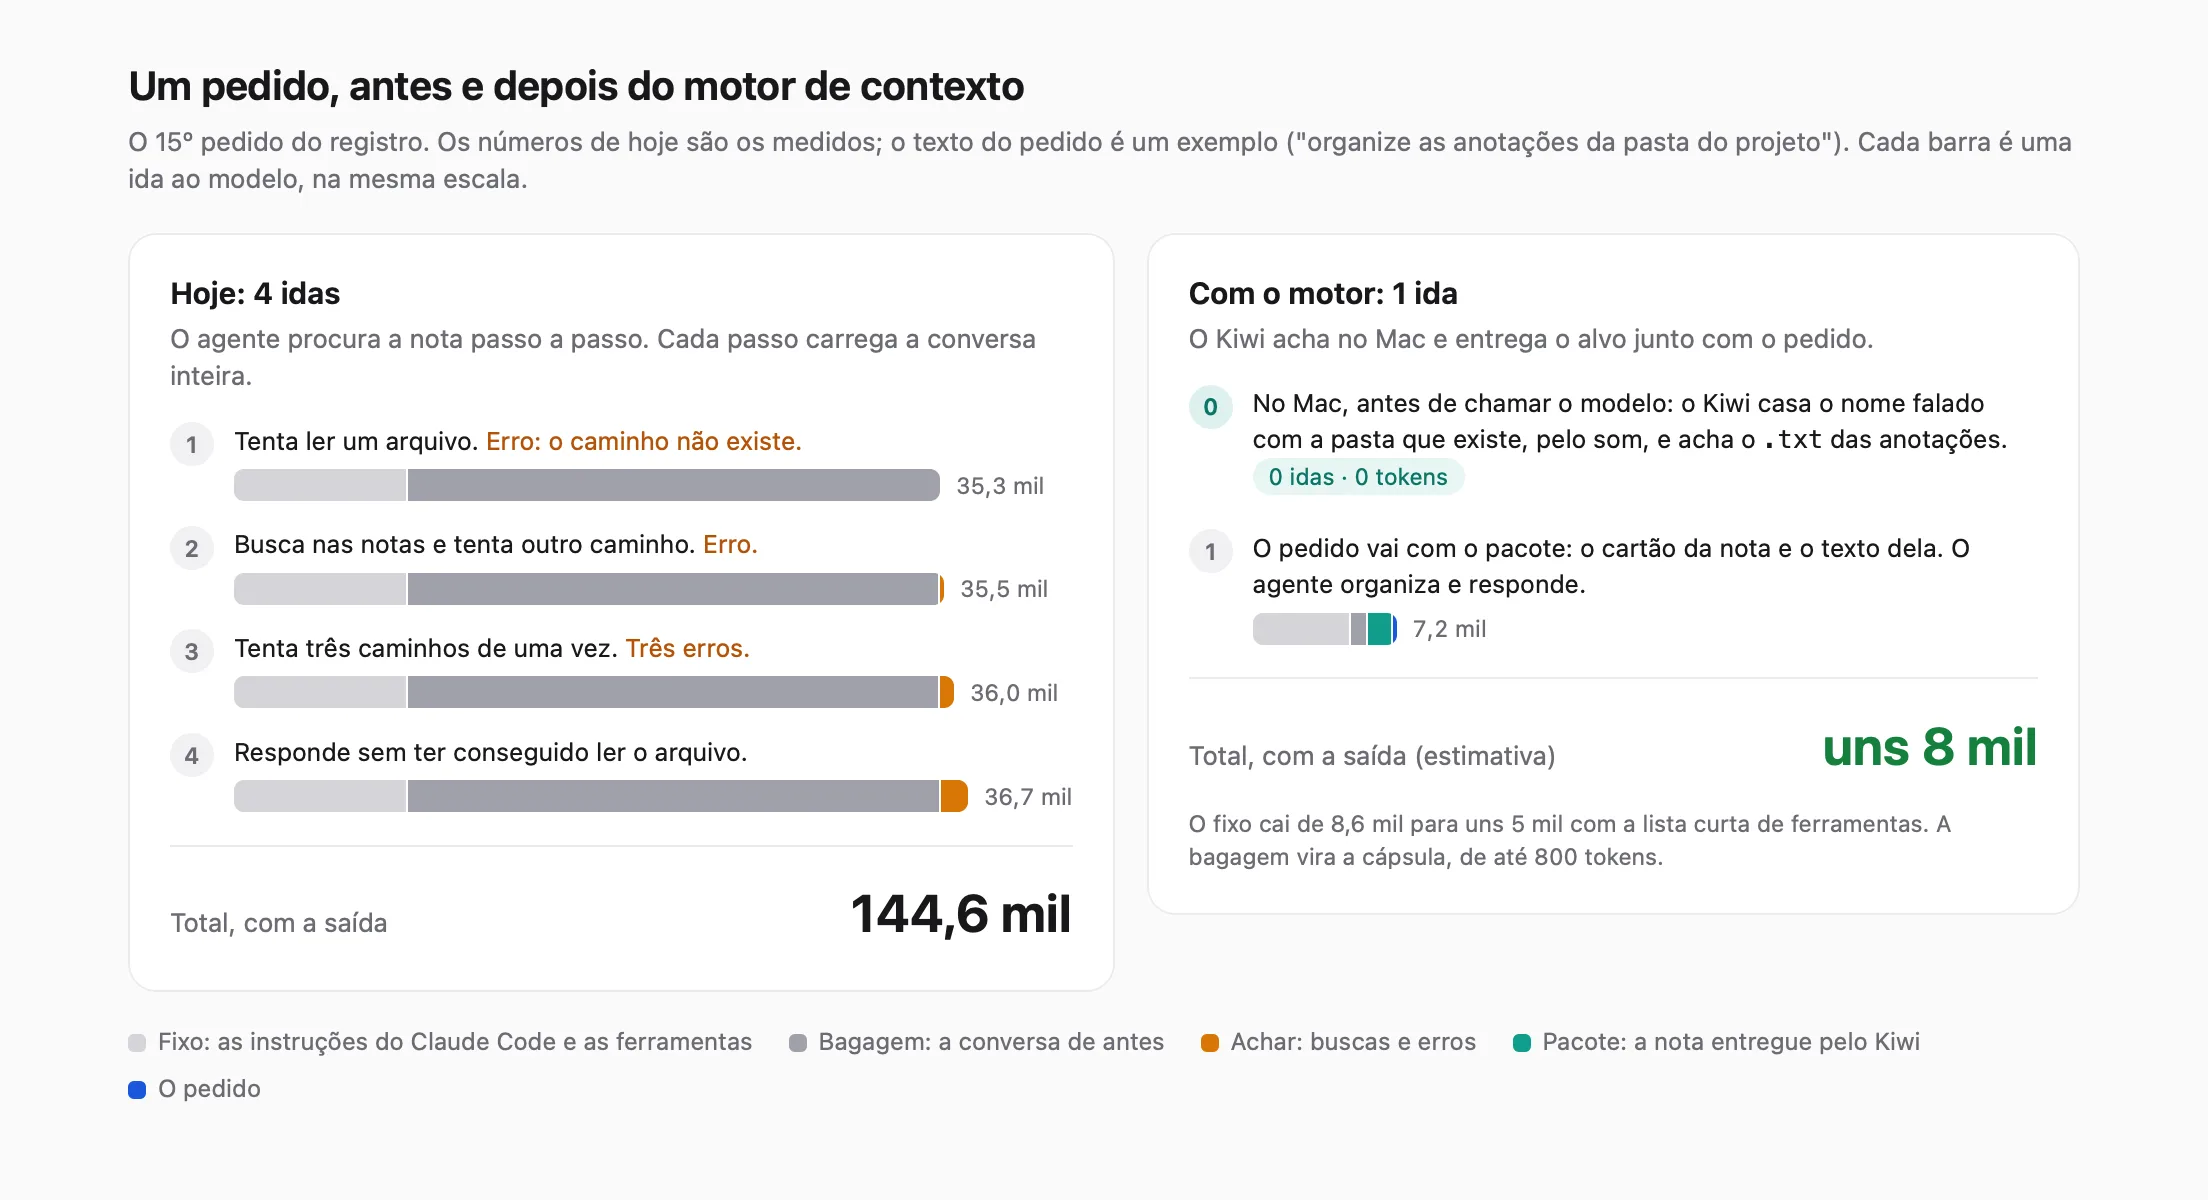
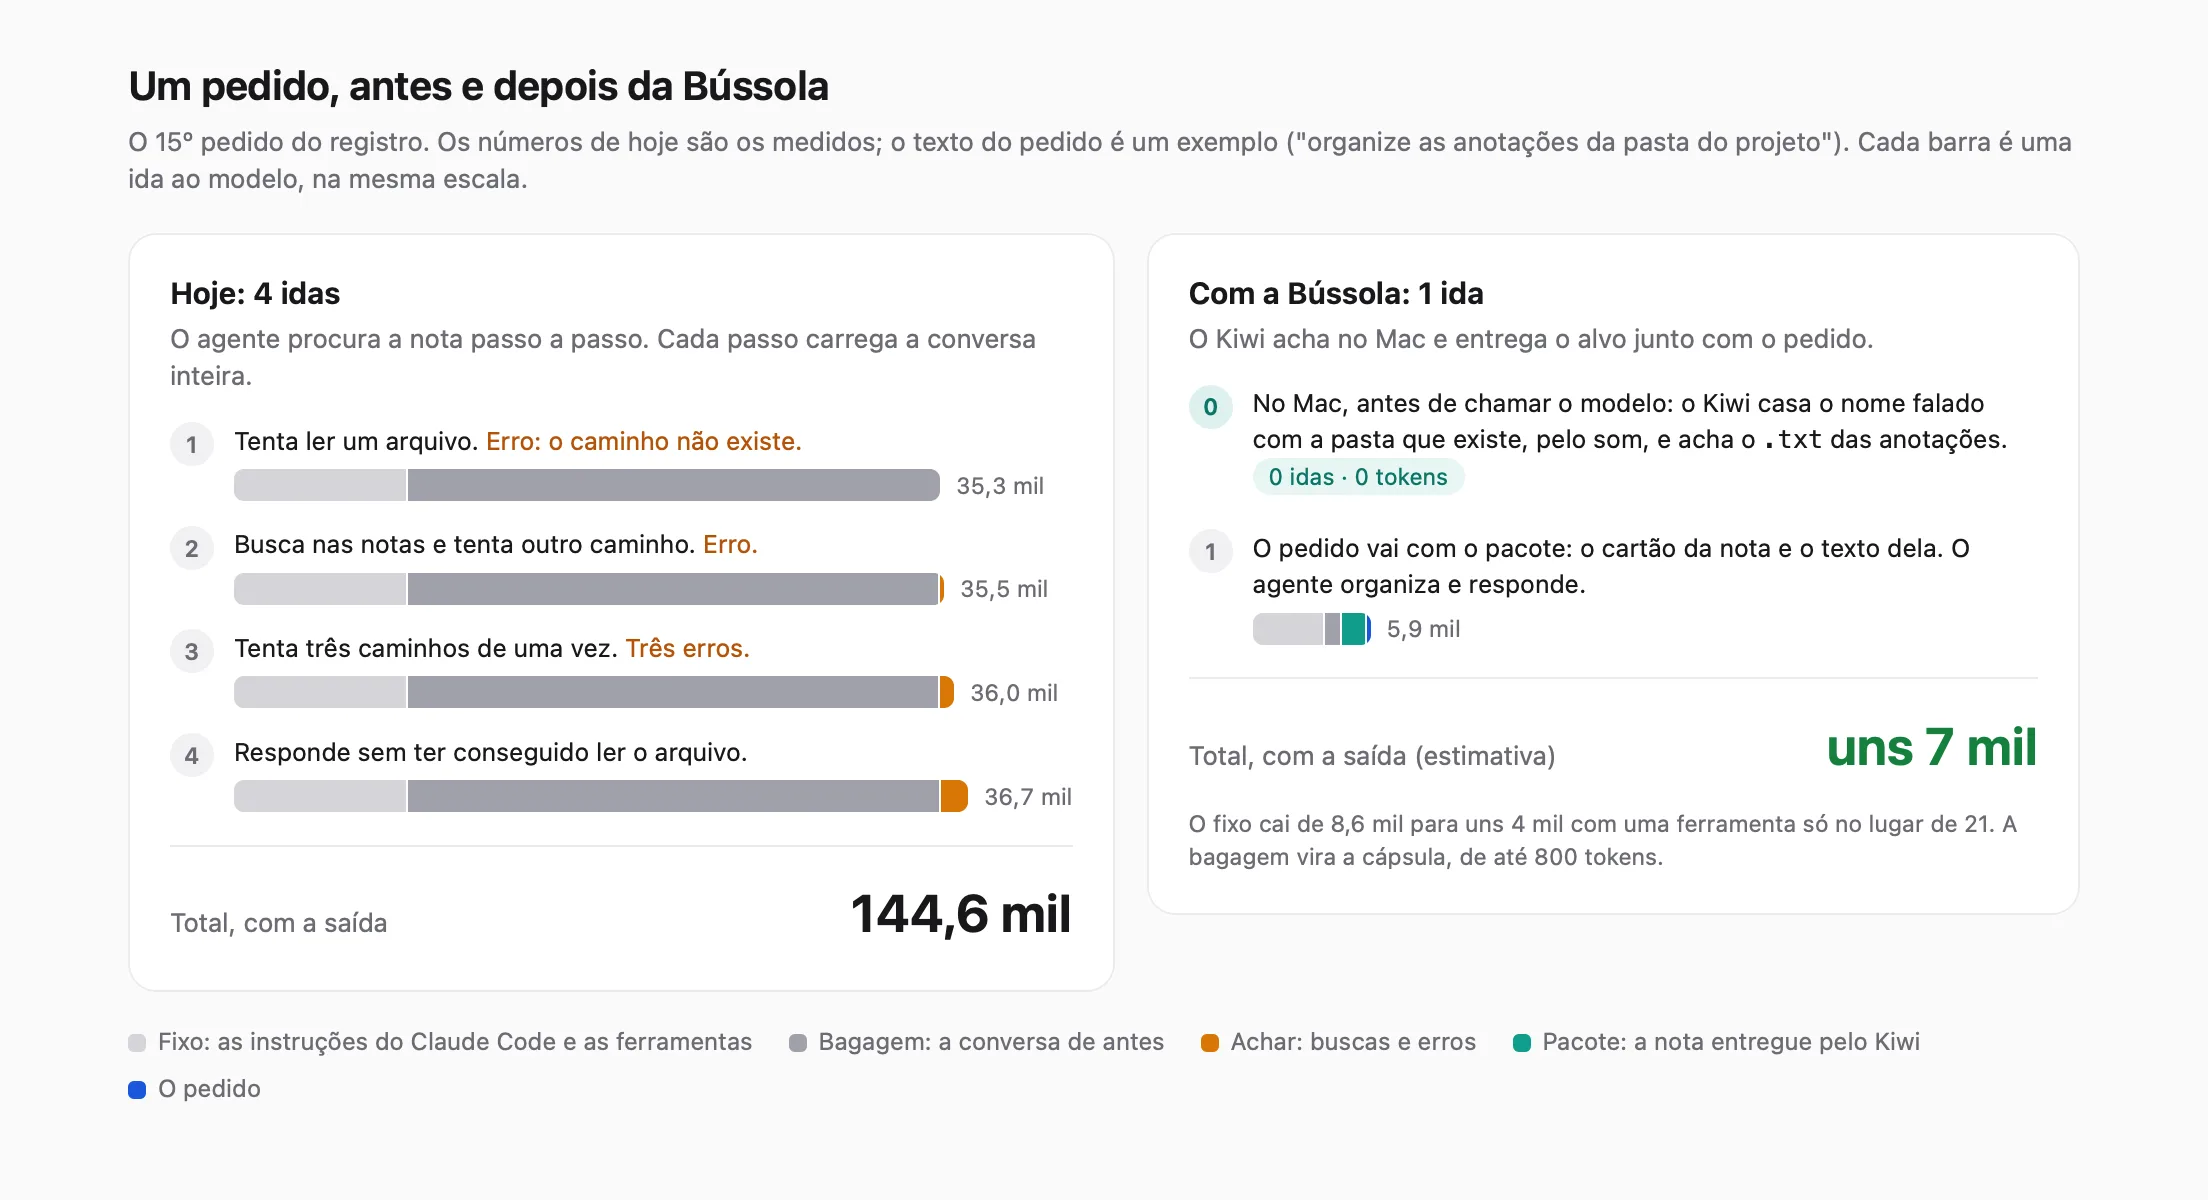
ADR 0013: a revisão pedida pelo harry e o nome Bússola (T13450)
A autocrítica do #13636: uma ferramenta só no lugar de 21 (o fixo cai para
uns 4 mil), a peça 7 (escrever só a diferença, porque a amostra não tinha
escrita), o peso real de cada token medido no PR 1, o ditado com os nomes
das notas, o mapa da pasta na cápsula e o teto da janela que pode ir a zero.
O nome é Bússola / Compass (#13644).

diff --git a/docs/adr/0013-motor-de-contexto.md b/docs/adr/0013-motor-de-contexto.md
@@ -1,7 +1,8 @@
-# ADR 0013: o motor de contexto do Kiwi
+# ADR 0013: a Bússola, o motor de contexto do Kiwi
 
 - Status: **proposto** (T13450, spec #13435). As quatro decisões do harry estão tomadas (#13624, #13626, #13628 e #13631). Falta o sim dele ao ADR inteiro. Nenhum código antes disso.
-- O nome do motor ainda não está escolhido (#13613). Até lá, é "o motor de contexto".
+- O nome é **Bússola** (em inglês, Compass), escolhido pelo harry no #13644.
+- A revisão do #13636 (a autocrítica que o harry pediu) mudou a peça 6, criou a peça 7 e pôs a medição do peso real no PR 1. O que mudou está marcado com "revisão".
 - Segue o [ADR 0011](0011-agente-e-privacidade.md) (nenhum outro modelo de IA, nem local) e o [ADR 0012](0012-host-do-agente.md) (o host e o adaptador ACP). A decisão 1 abaixo muda uma frase do 0011.
 - Código: nenhum ainda. A ordem da construção está no fim.
 
@@ -48,16 +49,17 @@ A hipótese do spec era o agente relendo as mesmas notas. Nestes 18 pedidos ela 
 | Cache de leitura do Claude Code | Releitura de um arquivo igual devolve "sem mudança" | Só vale para as ferramentas dele, que o Kiwi desliga. E erra depois de um resumo da conversa: diz "sem mudança" de um texto que o modelo já não tem |
 | Resumo da conversa (`/compact`) e limpeza de resultados antigos | O próprio modelo resume a conversa, ou a API apaga resultados velhos | O resumo custa uma ida inteira e inventa. A limpeza invalida o cache |
 
-O ACP já tem o que o motor precisa: o adaptador aceita contexto embutido no pedido (`embeddedContext`) e o entrega ao modelo como `<context ref="…">`.
+O ACP já tem o que a Bússola precisa: o adaptador aceita contexto embutido no pedido (`embeddedContext`) e o entrega ao modelo como `<context ref="…">`.
 
-## Decisão: o motor de contexto
+## Decisão: a Bússola
 **O Kiwi acha, o agente faz. E o agente não carrega bagagem: quem guarda é o Kiwi.**
 
-O motor é local e não usa modelo nenhum. Ele não usa a busca pelo sentido (e5), mesmo ligada. São seis peças.
+A Bússola é local e não usa modelo nenhum. Ela não usa a busca pelo sentido (e5), mesmo ligada. São sete peças.
 
 ### 1. A busca antecipada: achar antes de perguntar
 Antes de mandar o pedido, o Kiwi resolve no Mac o que a pessoa citou. Custa zero idas e zero tokens.
 - **O índice de nomes.** Todo nome que existe na pasta de notas: pastas, títulos, apelidos (`aliases`), seções, projetos, reuniões, tags e arquivos de qualquer tipo (`.txt`, `.pdf`, `.xlsx`). Cada nome fica em quatro formas: sem acento e sem maiúscula, sem separador (espaço, `-` e `_` valem igual), pelo radical e **pelo som**.
+- **O ditado conhece os nomes das notas (revisão).** Os nomes das pastas, das notas e dos projetos entram na correção do ditado, como o dicionário de hoje. O nome já chega certo no pedido, e casar pelo som fica como rede de segurança.
 - **Pelo som, porque o pedido é falado.** O ditado erra nomes próprios. O Kiwi compara o que ouviu com os nomes que existem, pela pronúncia em português e em inglês. Nenhuma ferramenta de código faz isso: nelas o caminho é digitado.
 - **As citações.** O Kiwi passa pelo pedido em janelas de 1 a 5 palavras e casa cada uma com o índice: igual vale mais que parecido, e um nome longo vale mais que um curto. Palavras como "pasta", "nota", "reunião", "projeto" e "planilha" dizem o tipo.
 - **O que a pessoa aponta sem nomear.** "Essa nota", "aqui" e "esse projeto" viram a nota e a pasta abertas no app. "A última reunião" e "ontem" viram a reunião e as datas.
@@ -89,17 +91,27 @@ Antes de mandar o pedido, o Kiwi resolve no Mac o que a pessoa citou. Custa zero
 Esta é a peça que mais economiza: a conversa antiga reenviada é 65 % do gasto.
 - **A sessão do agente vira descartável.** O Kiwi guarda a conversa no Mac (o pedido, a resposta final e o que foi tocado), por 30 dias, como já guarda a Atividade.
 - **Uma janela é uma sessão nova,** que começa com a **cápsula**: os 3 últimos pedidos com as respostas, cortados, e os cartões das notas tocadas, sem o texto. Até 800 tokens. O Kiwi monta a cápsula sozinho, sem modelo e sem ida.
+- **A cápsula leva o mapa da pasta (revisão):** os projetos e as pastas do primeiro nível, com a contagem, em até 300 tokens. Quando a busca antecipada não acha nada, o agente já sabe onde procurar.
 - **Dentro da janela, a sessão segue como hoje.** A conversa contínua do balão (#13380) acontece aqui, com a memória de verdade do agente.
 - **A janela fecha quando esfriou ou engordou:** mais de 55 minutos sem ida (o cache venceu, e retomar seria reescrever tudo), ou mais de 6 mil tokens de conversa acumulada. Também fecha quando a pessoa pede uma conversa nova.
 - **Nunca no meio de uma conversa.** Com o gato na tela e a conversa andando (#13380), a janela não fecha pelo tamanho: o teto vale só na próxima vez que o gato abrir.
-- **O teto de 6 mil é um ajuste.** Ele depende de quanto a leitura de cache pesa no limite da assinatura, e o placar mede isso.
+- **O teto de 6 mil é um ajuste, e pode ir a zero (revisão).** Com o teto em zero, cada pedido é uma sessão nova com a cápsula, e a bagagem fica em 800 tokens. Isso vale a pena se a leitura de cache pesar como token cheio no limite da assinatura, e não vale se pesar pouco. O PR 1 mede esse peso antes de alguém escolher.
 - **Os 10 minutos não decidem nada.** O programa pode fechar depois de 10 minutos parado, para liberar memória. Reaberto dentro da hora, ele retoma a janela, com o cache quente. Isso responde à pergunta do #13437.
 - **O texto das notas nunca viaja na bagagem.** O Kiwi entrega de novo quando for preciso, pela versão.
 
 ### 6. O peso fixo menor
-- **Cinco verbos no lugar de 21 ferramentas:** achar, ler, escrever, propor e lembrar. As instruções longas (gerar arquivo, reunião, resumo executivo, rotina) saem da lista fixa e chegam pelo cartão de instrução, só quando o pedido precisa.
+- **Uma ferramenta no lugar de 21 (revisão).** Uma só, `kiwi`, com quatro campos: o que fazer (achar, ler, escrever, propor, lembrar), o alvo, o texto e as opções. As 21 de hoje pesam uns 5,3 mil tokens em toda ida; uma pesa uns 400. A primeira versão deste ADR propunha cinco verbos, que ficariam em uns 1,5 mil.
+- **As instruções longas** (gerar arquivo, reunião, resumo executivo, rotina) saem da lista fixa e chegam pelo cartão de instrução, só quando o pedido precisa.
+- **Quem separa leitura de escrita é o Kiwi,** pelo campo "o que fazer", como hoje separa pelo nome da ferramenta. A Atividade continua mostrando cada ação.
 - **A lista nunca muda no meio da sessão.** Mudar uma ferramenta invalida o cache inteiro.
 - **As instruções próprias ficam para depois** (decisão 3): trocar as instruções de programador do Claude Code por instruções curtas de um assistente de notas só volta à mesa com a resposta da Anthropic (#8355).
+
+### 7. Escrever só a diferença (revisão)
+Os 18 pedidos medidos não tiveram nenhuma escrita: o agente não chegou a achar os arquivos. Num uso que dá certo, a saída pesa mais. Hoje, para organizar uma nota, o agente devolve a nota inteira, e a saída custa 5 vezes a entrada.
+- **A versão vem no cartão.** O agente escreve sem ler antes: a ida da leitura some.
+- **Trocar um trecho, não a nota.** A escrita aceita "troque este trecho por este", além da seção e da nota inteira.
+- **Mexer na estrutura sem reescrever.** Mover uma seção, renomear um título e juntar duas seções viram operações curtas, pelos números de seção do cartão.
+- **A resposta da escrita é curta:** a versão nova e o que mudou, sem devolver o texto.
 
 ### O placar
 Em Ajustes › Agente, por pedido e por dia:
@@ -112,11 +124,11 @@ Fica só no Mac. O mockup está em `docs/evidence/T13450/placar.webp`.
 ## Um pedido, antes e depois
 O 15º pedido do registro, só em números.
 
-| | Hoje | Com o motor |
+| | Hoje | Com a Bússola |
 |---|---|---|
 | O que acontece | 4 idas: 5 leituras de arquivo, todas com erro, e 1 busca | 1 ida: o pacote já leva a nota |
-| O que cada ida carrega | 35 a 37 mil tokens | uns 7 mil: o fixo, a cápsula, o pacote e o pedido |
-| Total | 144,6 mil tokens | uns 8 mil (estimativa) |
+| O que cada ida carrega | 35 a 37 mil tokens | uns 6 mil: o fixo, a cápsula, o pacote e o pedido |
+| Total | 144,6 mil tokens | uns 7 mil (estimativa) |
 
 O desenho está em `docs/evidence/T13450/antes-e-depois.webp`.
 
@@ -129,13 +141,14 @@ O PR 1 monta a bateria: uma pasta falsa de 20 mil notas, 30 pedidos (cada um tam
 | Tokens em idas que só servem para achar ou errar | 48,9 % | até 10 % |
 | A busca antecipada acerta o alvo | não existe | o 1º em 85 % dos pedidos, entre os 5 em 97 % |
 | Bagagem no começo de um pedido | até 33,8 mil tokens | até 6 mil (o teto da janela); 800 depois de uma pausa longa |
-| Peso fixo por ida | 8,6 mil tokens | até 5 mil; até 3,5 mil com as instruções próprias |
+| Peso fixo por ida | 8,6 mil tokens | até 4 mil, com a ferramenta única |
+| Saída numa escrita | a nota inteira | só o trecho mudado |
 | Nota sem mudança mandada inteira de novo | sem controle | zero |
-| Os mesmos 18 pedidos, refeitos | 934 mil | até 190 mil (−80 %); até 160 mil com as instruções próprias (estimativa) |
+| Os mesmos 18 pedidos, refeitos | 934 mil | até 160 mil (−83 %); uns 115 mil (−88 %) com o teto da janela em zero (estimativa) |
 
-**Sobre os "90 % a 99 % dos tokens no pedido".** Em tokens brutos, isso não é possível com o Claude Code: as instruções e as ferramentas dele vão em toda ida, e a janela guarda a conversa recente. O que o motor entrega:
+**Sobre os "90 % a 99 % dos tokens no pedido".** Em tokens brutos, isso não é possível com o Claude Code: as instruções e as ferramentas dele vão em toda ida, e a janela guarda a conversa recente. O que a Bússola entrega:
 - achar e errar caem de 49 % para até 10 %;
-- o mesmo uso gasta um quinto dos tokens;
+- o mesmo uso gasta um sexto dos tokens. O piso com o Claude Code intacto é um décimo: 1 ida por pedido, só com as instruções dele, o pedido e a resposta;
 - pelo preço de API, a parte do pedido (o texto novo e a resposta) passa de 14 % para uns 60 % do custo (estimativa). O resto é abrir a frio, que só cai mais com as instruções próprias (decisão 3).
 
 ## As decisões do harry
@@ -150,7 +163,7 @@ O PR 1 monta a bateria: uma pasta falsa de 20 mil notas, 30 pedidos (cada um tam
    - B: retomar sempre a sessão inteira, como hoje.
    - C: sessão nova depois de 10 minutos, sem cápsula: o agente esquece a conversa.
 3. **As instruções do agente. Decidido: A (#13628).**
-   - **A (escolhida):** manter as do Claude Code e enxugar só as ferramentas. Peso fixo de uns 5 mil.
+   - **A (escolhida):** manter as do Claude Code e enxugar só as ferramentas. Peso fixo de uns 5 mil; com a ferramenta única da revisão, uns 4 mil.
    - B: instruções próprias do Kiwi, pela opção oficial `systemPrompt` do adaptador. Peso fixo de uns 3,5 mil. Fica para depois da resposta da Anthropic sobre a assinatura (#8355).
 4. **As trilhas. Decidido: A (#13631).**
    - **A (escolhida):** ligadas, visíveis e apagáveis em Ajustes › Agente.
@@ -158,15 +171,20 @@ O PR 1 monta a bateria: uma pasta falsa de 20 mil notas, 30 pedidos (cada um tam
 
 ## A ordem da construção
 Cada item é um PR dos builders, com o antes e o depois medidos na bateria.
-1. **A bateria e o simulador de idas** (o PR 1 do spec), com o registro do harry reproduzido.
+1. **A bateria e o simulador de idas** (o PR 1 do spec), com o registro do harry reproduzido. E **o peso real de cada tipo de token** (revisão): o Kiwi guarda o `/usage` antes e depois de cada pedido, para a conta do limite sair do uso de verdade.
 2. **A janela curta e a cápsula** (peça 5): o maior ganho, e não depende do índice.
 3. **O erro que ensina e o `find`** (peça 3), por cima do T13427.
 4. **A busca antecipada e o pacote** (peças 1 e 2), com a mudança do ADR 0011 e da tela.
-5. **Os cinco verbos e o cartão de instrução** (peça 6).
+5. **A ferramenta única e o cartão de instrução** (peça 6) e **a escrita pela diferença** (peça 7).
 6. **O placar.**
 7. **O registro de entrega** (peça 4) e **as trilhas.**
 
+## Uma ideia a provar: o fim antecipado
+Depois de uma escrita, o agente faz mais uma ida só para dizer "pronto". O Kiwi poderia mostrar a frase final que veio junto da escrita e encerrar o pedido ali, sem essa ida. Isso depende de como o Claude Code reage a um pedido encerrado no meio, e só o harry testa o agente de verdade. Fica fora das metas até uma prova.
+
 ## Os riscos
+- **A ferramenta única pode gerar mais erro de chamada** que 21 ferramentas com o formato de cada uma. O erro que ensina cobre isso, e a bateria conta as idas por erro. Se passar de 5 % das chamadas, voltam os cinco verbos.
+- **A amostra é pequena e sem escrita:** 18 pedidos de um dia, 7 deles com resposta de menos de 30 tokens (171 mil tokens, 18 % do total). A bateria do PR 1 tem de incluir pedidos que escrevem.
 - **A busca antecipada erra com certeza.** O agente trabalharia na nota errada. O corte do "certo" sai da bateria, o pacote diz qual nota mandou, e a escrita continua com a versão conferida e o Desfazer.
 - **A cápsula perde o detalhe de uma conversa longa.** Dentro da janela nada se perde. Entre janelas ficam os 3 últimos pedidos e as notas tocadas.
 - **Os números de depois são estimativa** até o PR 1. A prova final é o harry usando a rc e vendo o placar.
